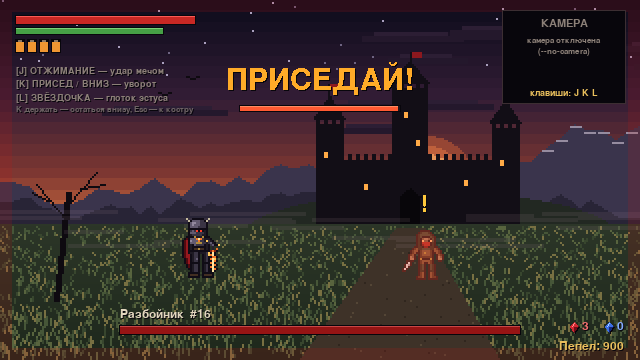
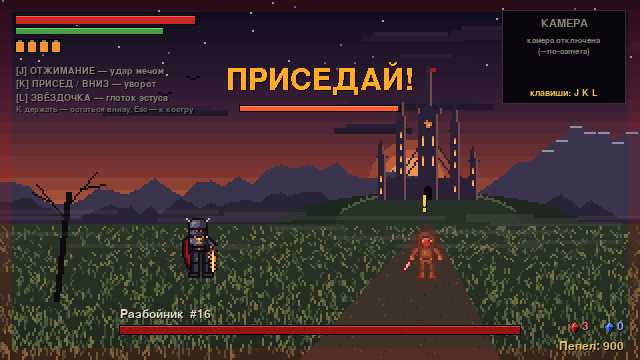
Gothic castle in the distance, bigger Bandit Chief
- Castle redrawn as a narrow, tall gothic silhouette far away on a
  grassy hill: needle spires with finials, cathedral with gable and rose
  window, lit lancet windows, flying buttresses, crenellated wall,
  pointed gate, sunset rim light; distant stone is lighter and cooler
- Bandit Chief enlarged to 46x42 by repeating pixel rows/columns (hood,
  torso, sash, legs, shoulders) so he towers over the hero; windup
  marker repositioned

Claude-Session: https://claude.ai/code/session_011mW4u7Ce1C3wwPLST6Z2ZA

diff --git a/fitness_rpg/web/js/game.js b/fitness_rpg/web/js/game.js
@@ -1044,8 +1044,8 @@ class BattleScene extends Scene {
       const pulse = 0.5 + 0.5 * Math.sin(g.time * 14);
       g.text(plank ? "ОПУСТИСЬ!" : "ПРИСЕДАЙ!", W / 2, 56, 32, `rgb(255,${Math.floor(60 + 120 * pulse)},40)`, "center");
       g.bar(W / 2 - 80, 96, 160, 5, k, "rgb(255,90,50)");
-      const top = GROUND_ARENA - ({ knight: 58, chief: 48 }[en.kind] || 44);
-      g.text("!", Math.round(en.x + ({ knight: 30, chief: 24 }[en.kind] || 12)) * 2, 2 * top, 24, "rgb(255,200,60)", "center");
+      const top = GROUND_ARENA - ({ knight: 58, chief: 56 }[en.kind] || 44);
+      g.text("!", Math.round(en.x + ({ knight: 30, chief: 28 }[en.kind] || 12)) * 2, 2 * top, 24, "rgb(255,200,60)", "center");
     } else if (en.state === "recover" && !this.result) {
       g.text("Окно для удара: ОТЖИМАЙСЯ!", W / 2, 70, 8, COL.gold, "center");
     } else if (en.state === "drink" && !this.result) {

diff --git a/fitness_rpg/web/sw.js b/fitness_rpg/web/sw.js
@@ -1,5 +1,5 @@
 // Офлайн-кэш: после первого запуска с сетью игра открывается и без интернета.
-const CACHE = "ash-and-iron-v7";
+const CACHE = "ash-and-iron-v8";
 const CORE = [
   "./", "index.html", "style.css", "manifest.webmanifest",
   "js/game.js", "js/motion.js", "js/exercises.js", "js/player.js", "js/sfx.js", "js/gear.js",

diff --git a/fitness_rpg/game/art.py b/fitness_rpg/game/art.py
@@ -397,7 +397,26 @@ CHIEF_ARM_DRINK = {
 }
 
 
+CHIEF_DUP_ROWS = (4, 11, 13, 15, 20, 24, 26, 28)   # капюшон, торс, кушак, ноги
+CHIEF_DUP_COLS = (CHIEF_X + 15, CHIEF_X + 16)      # шире в плечах
+
+
+def _enlarge(rows, dup_rows, dup_cols):
+    """Увеличивает пиксельную карту, повторяя выбранные ряды и столбцы (пиксели остаются чёткими)."""
+    out = []
+    for y, row in enumerate(rows):
+        wide = "".join(ch * (2 if x in dup_cols else 1) for x, ch in enumerate(row))
+        out.append(wide)
+        if y in dup_rows:
+            out.append(wide)
+    return out
+
+
 def chief_map(arm):
+    return _enlarge(_chief_map_base(arm), CHIEF_DUP_ROWS, CHIEF_DUP_COLS)
+
+
+def _chief_map_base(arm):
     rows = [list("." * CHIEF_W) for _ in range(34)]
     for y, row in enumerate(_chief_body()):
         for x, ch in enumerate(row):
@@ -789,6 +808,79 @@ def make_arena_background(w=320, h=180, seed=7):
     return surf
 
 
+def draw_gothic_castle(surf, cx, base, rnd):
+    """Узкий высокий готический замок вдали на холме: шпили-иглы, собор с розой, стрельчатые окна."""
+    hill_col, hill_mid, hill_hi = (30, 40, 32), (38, 50, 38), (84, 90, 62)
+    pygame.draw.ellipse(surf, hill_col, (cx - 80, base - 4, 160, 40))
+    pygame.draw.ellipse(surf, hill_mid, (cx - 46, base - 4, 92, 30))
+    for x in range(cx - 44, cx + 44):  # травянистая кромка холма в свете заката
+        y = base - 4 + int(15 * (1 - (1 - ((x - cx) / 46) ** 2) ** 0.5))
+        surf.set_at((x, y), hill_hi)
+        if x % 3 == 0:
+            surf.set_at((x, y - 1), hill_hi)
+
+    # даль: камень светлее и холоднее, чем силуэты на переднем плане
+    stone, dark, rim = (44, 32, 54), (28, 20, 36), (120, 72, 74)
+    glow, glow_dim = (255, 176, 90), (210, 120, 60)
+
+    def needle(x, top, w, h):
+        """Шпиль-игла с крестоцветом."""
+        pygame.draw.polygon(surf, stone, [(x, top), (x + (w - 1) / 2, top - h), (x + w - 1, top)])
+        pygame.draw.line(surf, rim, (x + (w - 1) // 2 + 1, top - h + 2), (x + w - 1, top))
+        surf.set_at((x + (w - 1) // 2, top - h - 1), stone)
+
+    def tower(x, top, w, spire_h, win_step=6):
+        pygame.draw.rect(surf, stone, (x, top, w, base - top))
+        pygame.draw.line(surf, rim, (x + w - 1, top), (x + w - 1, base - 1))  # край в свете заката
+        surf.set_at((x - 1, top - 1), stone)  # угловые пинакли
+        surf.set_at((x + w, top - 1), stone)
+        needle(x, top, w, spire_h)
+        for wy in range(top + 3, base - 4, win_step):  # стрельчатые окна-бойницы
+            if rnd.random() < 0.7:
+                surf.set_at((x + w // 2 - 1 + (w % 2), wy), glow_dim)
+                pygame.draw.line(surf, glow, (x + w // 2 - 1 + (w % 2), wy + 1), (x + w // 2 - 1 + (w % 2), wy + 2))
+
+    # стена с зубцами
+    wall_top = base - 11
+    pygame.draw.rect(surf, stone, (cx - 22, wall_top, 44, 11))
+    for bx in range(cx - 22, cx + 22, 2):
+        if (bx - cx) % 4 == 0:
+            surf.set_at((bx, wall_top - 1), stone)
+    # башни: низкие по краям, высокие и тонкие ближе к собору
+    tower(cx - 25, base - 21, 4, 8)
+    tower(cx + 21, base - 19, 4, 7)
+    tower(cx - 16, base - 37, 5, 14)
+    tower(cx + 11, base - 34, 5, 13)
+    # контрфорсы к собору
+    for sx, ex in ((cx - 11, cx - 5), (cx + 11, cx + 5)):
+        pygame.draw.line(surf, stone, (sx, base - 18), (ex, base - 27))
+        pygame.draw.line(surf, stone, (sx, base - 13), (ex, base - 21))
+    # собор: самый высокий, узкий, с фронтоном и иглой
+    top = base - 44
+    pygame.draw.rect(surf, stone, (cx - 5, top, 10, base - top))
+    pygame.draw.line(surf, rim, (cx + 4, top), (cx + 4, base - 1))
+    pygame.draw.polygon(surf, stone, [(cx - 5, top), (cx, top - 5), (cx + 4, top)])
+    needle(cx - 1, top - 4, 3, 20)
+    for px in (cx - 6, cx + 5):  # пинакли по углам фасада
+        needle(px, top, 2, 4)
+    # розовое окно
+    pygame.draw.circle(surf, glow_dim, (cx, top + 6), 2)
+    surf.set_at((cx, top + 6), glow)
+    for dx, dy in ((0, -2), (0, 2), (-2, 0), (2, 0)):
+        surf.set_at((cx + dx, top + 6 + dy), dark)
+    # высокие стрельчатые окна собора
+    for wx in (cx - 3, cx + 2):
+        for wy in (top + 12, top + 22):
+            surf.set_at((wx, wy), glow_dim)
+            pygame.draw.line(surf, glow, (wx, wy + 1), (wx, wy + 4))
+    # стрельчатые ворота
+    pygame.draw.rect(surf, (12, 8, 14), (cx - 2, base - 6, 4, 6))
+    surf.set_at((cx - 1, base - 7), (12, 8, 14))
+    surf.set_at((cx, base - 7), (12, 8, 14))
+    # знамя на шпиле
+    pygame.draw.rect(surf, (160, 30, 34), (cx + 1, top - 22, 3, 2))
+
+
 def make_castle_background(w=320, h=180, seed=21):
     """Подступы к замку: травяное поле, горы и тёмный замок на холме под багровым закатом."""
     rnd = random.Random(seed)
@@ -808,8 +900,8 @@ def make_castle_background(w=320, h=180, seed=21):
     for _ in range(40):  # редкие звёзды наверху
         surf.set_at((rnd.randrange(w), rnd.randrange(40)), rnd.choice([(170, 160, 190), (110, 100, 130)]))
     # тусклое солнце садится за замок
-    sx, sy = 214, 92
-    for r, col in ((24, (150, 70, 52)), (19, (190, 96, 60)), (15, (230, 150, 90))):
+    sx, sy = 206, 92
+    for r, col in ((22, (150, 70, 52)), (17, (190, 96, 60)), (13, (230, 150, 90))):
         pygame.draw.circle(surf, col, (sx, sy), r)
     # рваные тучи
     for _ in range(9):
@@ -835,24 +927,8 @@ def make_castle_background(w=320, h=180, seed=21):
     ridge(92, 30, (58, 52, 76), 7, 7, snow=(150, 140, 160))  # дальние горы со снегом
     ridge(104, 16, (40, 36, 54), 5, 4)                        # ближние горы
 
-    # холм и замок впереди
-    pygame.draw.ellipse(surf, (34, 40, 34), (120, 96, 190, 46))
-    castle = (18, 14, 22)
-    pygame.draw.rect(surf, castle, (166, 80, 92, 34))                  # стена
-    for tx, tw, th in ((158, 14, 52), (196, 18, 70), (246, 14, 50)):   # башни
-        pygame.draw.rect(surf, castle, (tx, 114 - th, tw, th))
-        for bx in range(tx, tx + tw, 4):
-            pygame.draw.rect(surf, castle, (bx, 114 - th - 3, 2, 3))
-        pygame.draw.polygon(surf, castle, [(tx - 1, 114 - th - 3), (tx + tw // 2, 114 - th - 14), (tx + tw, 114 - th - 3)])
-    for bx in range(166, 258, 4):
-        pygame.draw.rect(surf, castle, (bx, 77, 2, 3))
-    pygame.draw.rect(surf, (8, 6, 10), (200, 98, 10, 16))              # ворота
-    pygame.draw.polygon(surf, (8, 6, 10), [(200, 98), (205, 94), (210, 98)])
-    for wx, wy in ((162, 76), (202, 56), (208, 70), (250, 80), (182, 92), (232, 90)):  # окна
-        pygame.draw.rect(surf, (255, 170, 70), (wx, wy, 2, 3))
-    for fx, fy in ((205, 33), (164, 49), (252, 51)):                   # флаги
-        pygame.draw.line(surf, castle, (fx, fy), (fx, fy - 7))
-        pygame.draw.rect(surf, (140, 24, 30), (fx + 1, fy - 7, 5, 3))
+    # далёкий холм и готический замок на нём
+    draw_gothic_castle(surf, 214, 100, rnd)
 
     # поле: тёмная трава с полосами и светлыми стебельками
     for y in range(horizon, h):
@@ -866,12 +942,12 @@ def make_castle_background(w=320, h=180, seed=21):
         length = 1 + int(t * 3)
         pygame.draw.line(surf, blade, (x, y), (x + rnd.choice((-1, 0, 1)), y - length))
     # дорога к воротам
-    road = [(198, 114), (212, 114), (250, 180), (150, 180)]
+    road = [(212, 112), (216, 112), (250, 180), (150, 180)]
     pygame.draw.polygon(surf, (62, 50, 40), road)
     for _ in range(80):
         x = rnd.randrange(150, 250)
         y = rnd.randrange(116, 180)
-        if 198 + (y - 114) * (-48 / 66) <= x <= 212 + (y - 114) * (38 / 66):
+        if 212 + (y - 114) * (-62 / 66) <= x <= 216 + (y - 114) * (34 / 66):
             surf.set_at((x, y), rnd.choice([(84, 70, 54), (48, 38, 30)]))
     # мёртвое дерево и вороны
     tree = (14, 10, 16)
@@ -948,12 +1024,12 @@ def make_chief_frames():
     raised = sprite_from_map(chief_map(CHIEF_ARM_RAISED))
     drink = sprite_from_map(chief_map(CHIEF_ARM_DRINK))
     return {
-        "idle": [idle, shifted_breath(idle, 16)],
+        "idle": [idle, shifted_breath(idle, 20)],
         "windup": [tinted(raised, (255, 90, 50), 0.35), raised],
         "attack": [sprite_from_map(chief_map(CHIEF_ARM_SWING))],
         "hurt": [tinted(idle, (255, 255, 255), 0.8)],
         "drink": [drink, tinted(drink, (255, 120, 120), 0.25)],
-        "enraged": [tinted(idle, (255, 40, 30), 0.25), tinted(shifted_breath(idle, 16), (255, 40, 30), 0.25)],
+        "enraged": [tinted(idle, (255, 40, 30), 0.25), tinted(shifted_breath(idle, 20), (255, 40, 30), 0.25)],
         "dead": [crouched(tinted(idle, (60, 50, 50), 0.5))],
     }
 

diff --git a/fitness_rpg/game/scenes.py b/fitness_rpg/game/scenes.py
@@ -705,8 +705,8 @@ class BattleScene(Scene):
             pulse = 0.5 + 0.5 * math.sin(g.time * 14)
             g.text(s, "ОПУСТИСЬ!" if plank else "ПРИСЕДАЙ!", (SCREEN_W // 2, 62), 44, (255, int(60 + 120 * pulse), 40), center=True)
             g.bar(s, (SCREEN_W // 2 - 80, 106, 160, 5), k, (255, 90, 50))
-            top = GROUND_ARENA - {"knight": 56, "chief": 46}.get(en.kind, 44)
-            g.text(s, "!", (int(en.x + {"knight": 30, "chief": 24}.get(en.kind, 12)) * 2, 2 * top), 36, (255, 200, 60), center=True)
+            top = GROUND_ARENA - {"knight": 56, "chief": 54}.get(en.kind, 44)
+            g.text(s, "!", (int(en.x + {"knight": 30, "chief": 28}.get(en.kind, 12)) * 2, 2 * top), 36, (255, 200, 60), center=True)
         elif en.state == "recover" and not self.result:
             g.text(s, "Окно для удара — ОТЖИМАЙСЯ!", (SCREEN_W // 2, 76), 22, COL_GOLD, center=True)
         elif en.state == "drink" and not self.result:
